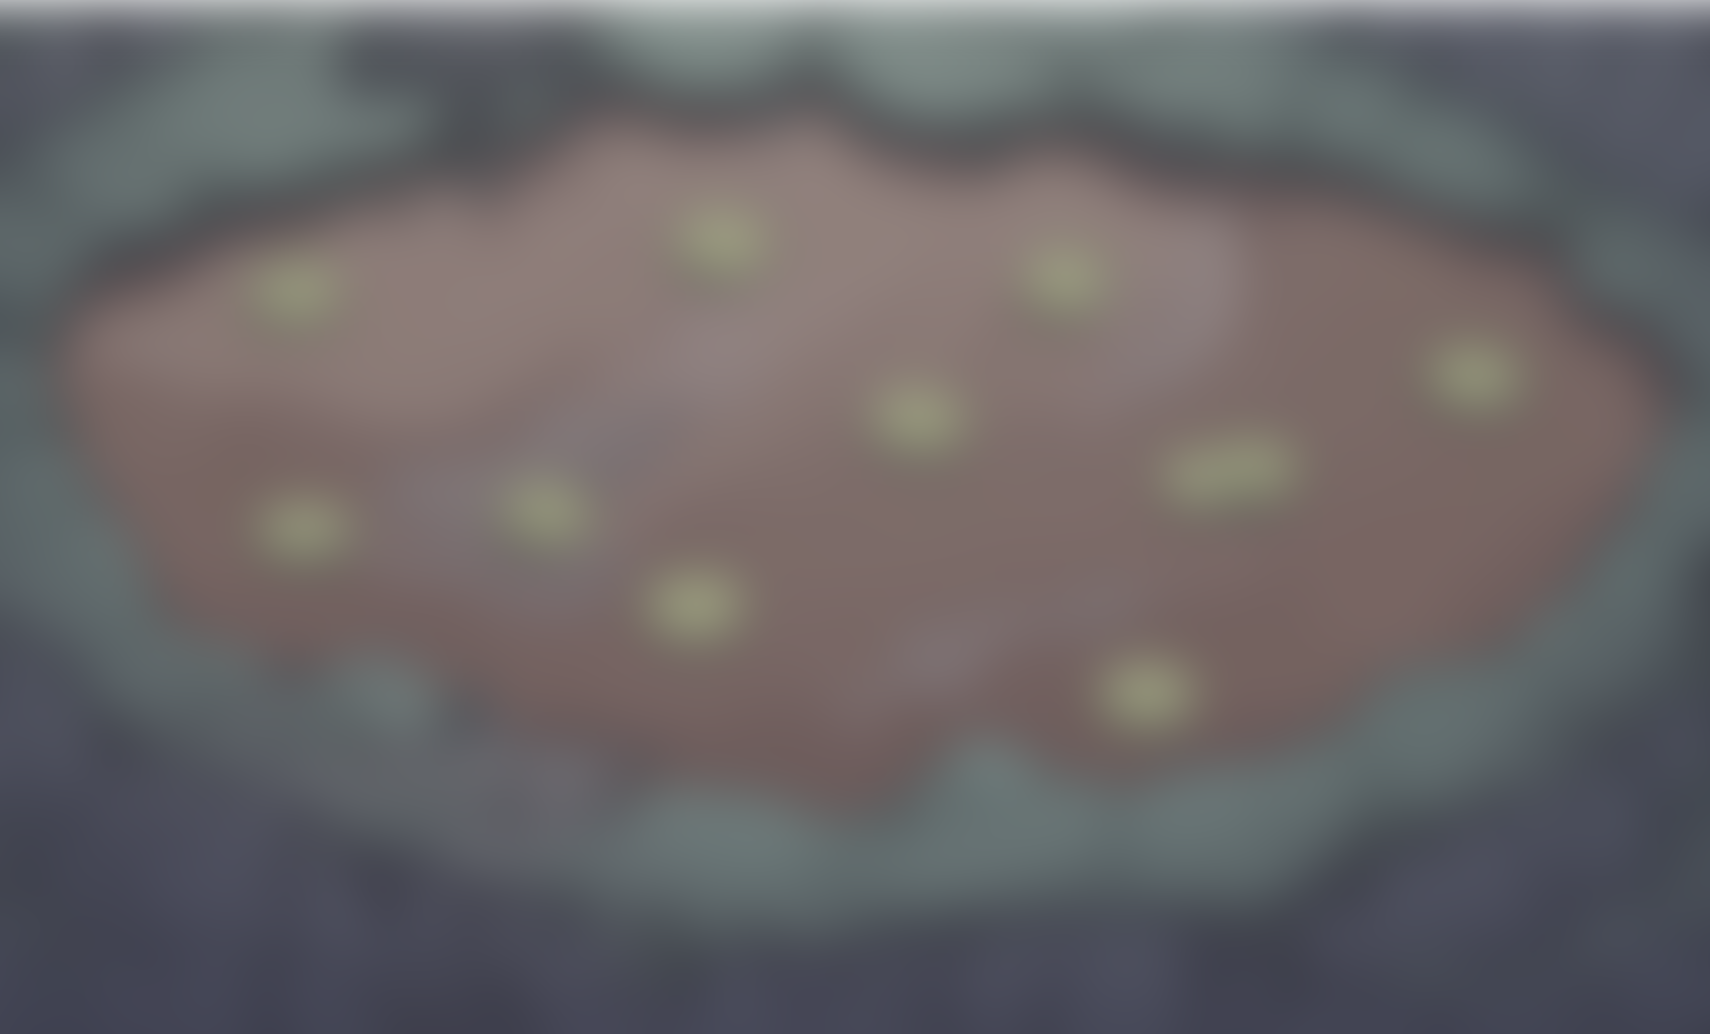
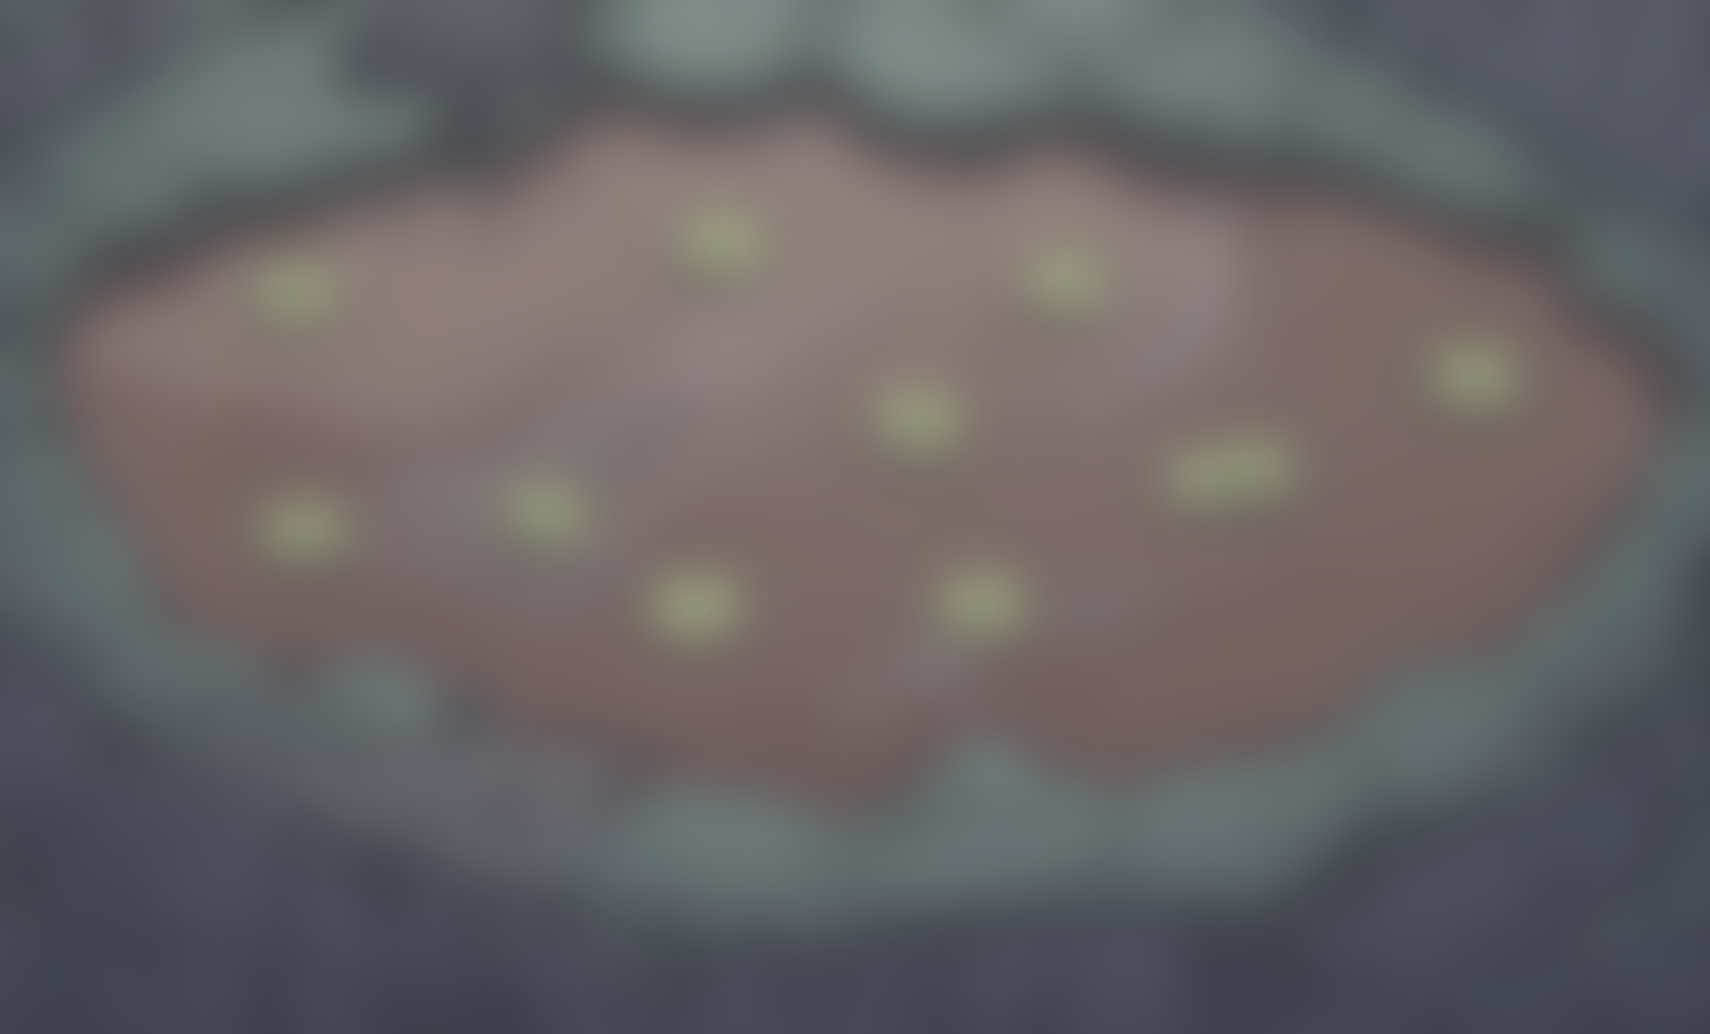
new img + ? on new nodes.

Changed region(s): [[0.0, 0.0, 1.0, 0.0309], [0.6509, 0.619, 0.7129, 0.7118], [0.5579, 0.5571, 0.5889, 0.619]]

diff --git a/ui/screens/map.py b/ui/screens/map.py
@@ -100,13 +100,15 @@ def render_map(screen, goToLevel):
 
     for node, data in nodes.items():
         if node != 'Frog':
+            # Dibujar fondo del nodo
             img_rect = undone_node_image.get_rect(center=data['pos'])
             screen.blit(undone_node_image, img_rect)
-        
-            # Renderizar la letra del nodo
-            letter_text = font.render(node, True, (255, 255, 255))
+            
+            # Renderizar la letra del nodo, excepto los niveles de Digrafo que no existen
+            letter_text = font.render(node if node not in ('EII', 'EIII', 'HII', 'HIII') else '?', True, (255, 255, 255))
             letter_rect = letter_text.get_rect(center=data['pos'])
             screen.blit(letter_text, letter_rect)
+
 
     graph_euler_text = font.render("Euler GRAPHS", True, (0, 0, 0))
     graph_hamilton_text = font.render("Hamilton GRAPHS", True, (0, 0, 0))
